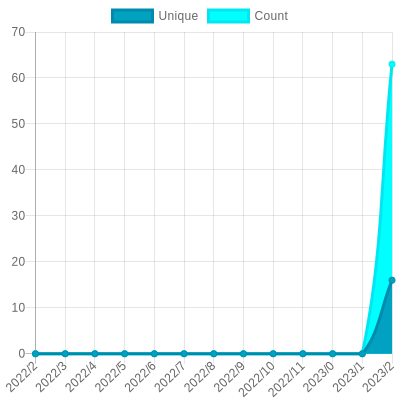
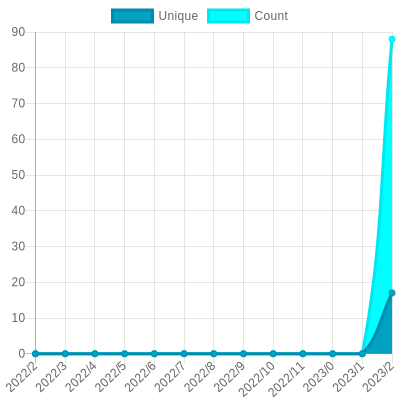
Update views

diff --git a/readme/437383648/year.md b/readme/437383648/year.md
@@ -23,10 +23,10 @@
 			<code>2022/3/1</code>
 		</td>
 		<td>
-			<code>16</code>
+			<code>17</code>
 		</td>
 		<td>
-			<code>63</code>
+			<code>88</code>
 		</td>
 	</tr>
 	<tr>
@@ -164,7 +164,7 @@
 </table>
 
 </details>
-<small><i>Last updated on 2022/3/27 12:33 AM UTC</i></small>
+<small><i>Last updated on 2022/3/27 6:08 AM UTC</i></small>
 
 ## ✂Copy and 📋 Paste
 ### SVG Badge

diff --git a/README.md b/README.md
@@ -869,7 +869,7 @@ The project created and maintained by [gayanvoice](https://github.com/gayanvoice
 	</tr>
 </table>
 
-<small><i>Last updated on 2022/3/27 12:40 AM UTC</i></small>
+<small><i>Last updated on 2022/3/27 6:16 AM UTC</i></small>
 
 ## ✂Copy and 📋 Paste
 ### Total Views Badge

diff --git a/readme/252348187/year.md b/readme/252348187/year.md
@@ -164,7 +164,7 @@
 </table>
 
 </details>
-<small><i>Last updated on 2022/3/27 12:39 AM UTC</i></small>
+<small><i>Last updated on 2022/3/27 6:15 AM UTC</i></small>
 
 ## ✂Copy and 📋 Paste
 ### SVG Badge

diff --git a/readme/256079566/year.md b/readme/256079566/year.md
@@ -164,7 +164,7 @@
 </table>
 
 </details>
-<small><i>Last updated on 2022/3/27 12:40 AM UTC</i></small>
+<small><i>Last updated on 2022/3/27 6:15 AM UTC</i></small>
 
 ## ✂Copy and 📋 Paste
 ### SVG Badge

diff --git a/readme/262135613/year.md b/readme/262135613/year.md
@@ -164,7 +164,7 @@
 </table>
 
 </details>
-<small><i>Last updated on 2022/3/27 12:39 AM UTC</i></small>
+<small><i>Last updated on 2022/3/27 6:14 AM UTC</i></small>
 
 ## ✂Copy and 📋 Paste
 ### SVG Badge

diff --git a/readme/281743425/year.md b/readme/281743425/year.md
@@ -164,7 +164,7 @@
 </table>
 
 </details>
-<small><i>Last updated on 2022/3/27 12:38 AM UTC</i></small>
+<small><i>Last updated on 2022/3/27 6:13 AM UTC</i></small>
 
 ## ✂Copy and 📋 Paste
 ### SVG Badge

diff --git a/readme/300094398/year.md b/readme/300094398/year.md
@@ -164,7 +164,7 @@
 </table>
 
 </details>
-<small><i>Last updated on 2022/3/27 12:40 AM UTC</i></small>
+<small><i>Last updated on 2022/3/27 6:15 AM UTC</i></small>
 
 ## ✂Copy and 📋 Paste
 ### SVG Badge

diff --git a/readme/302481454/year.md b/readme/302481454/year.md
@@ -164,7 +164,7 @@
 </table>
 
 </details>
-<small><i>Last updated on 2022/3/27 12:40 AM UTC</i></small>
+<small><i>Last updated on 2022/3/27 6:15 AM UTC</i></small>
 
 ## ✂Copy and 📋 Paste
 ### SVG Badge

diff --git a/readme/308116415/year.md b/readme/308116415/year.md
@@ -164,7 +164,7 @@
 </table>
 
 </details>
-<small><i>Last updated on 2022/3/27 12:40 AM UTC</i></small>
+<small><i>Last updated on 2022/3/27 6:15 AM UTC</i></small>
 
 ## ✂Copy and 📋 Paste
 ### SVG Badge

diff --git a/readme/308687595/year.md b/readme/308687595/year.md
@@ -164,7 +164,7 @@
 </table>
 
 </details>
-<small><i>Last updated on 2022/3/27 12:37 AM UTC</i></small>
+<small><i>Last updated on 2022/3/27 6:12 AM UTC</i></small>
 
 ## ✂Copy and 📋 Paste
 ### SVG Badge

diff --git a/readme/309781038/year.md b/readme/309781038/year.md
@@ -164,7 +164,7 @@
 </table>
 
 </details>
-<small><i>Last updated on 2022/3/27 12:40 AM UTC</i></small>
+<small><i>Last updated on 2022/3/27 6:15 AM UTC</i></small>
 
 ## ✂Copy and 📋 Paste
 ### SVG Badge

diff --git a/readme/315388139/year.md b/readme/315388139/year.md
@@ -164,7 +164,7 @@
 </table>
 
 </details>
-<small><i>Last updated on 2022/3/27 12:38 AM UTC</i></small>
+<small><i>Last updated on 2022/3/27 6:12 AM UTC</i></small>
 
 ## ✂Copy and 📋 Paste
 ### SVG Badge
